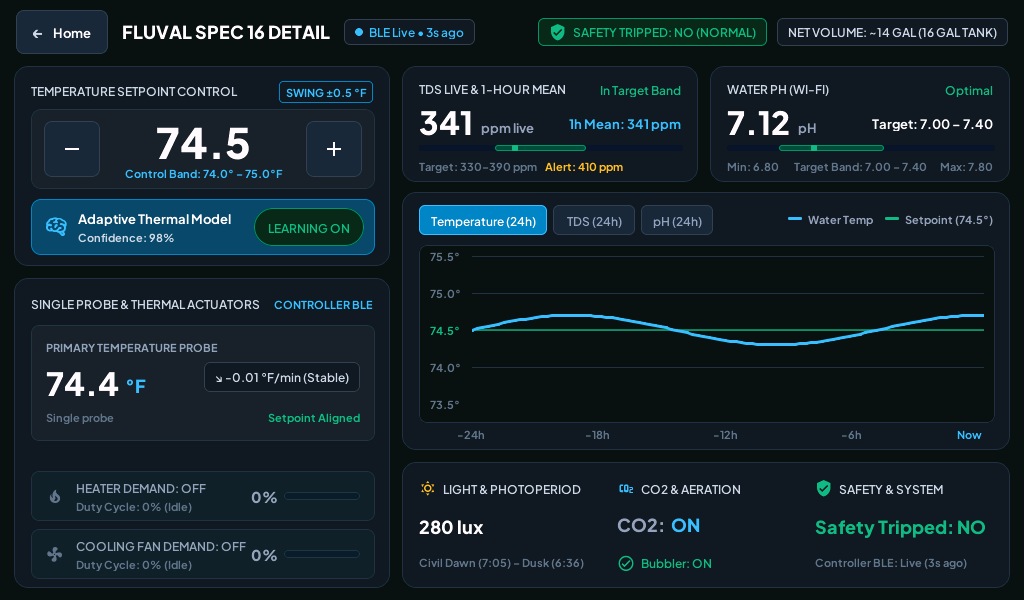
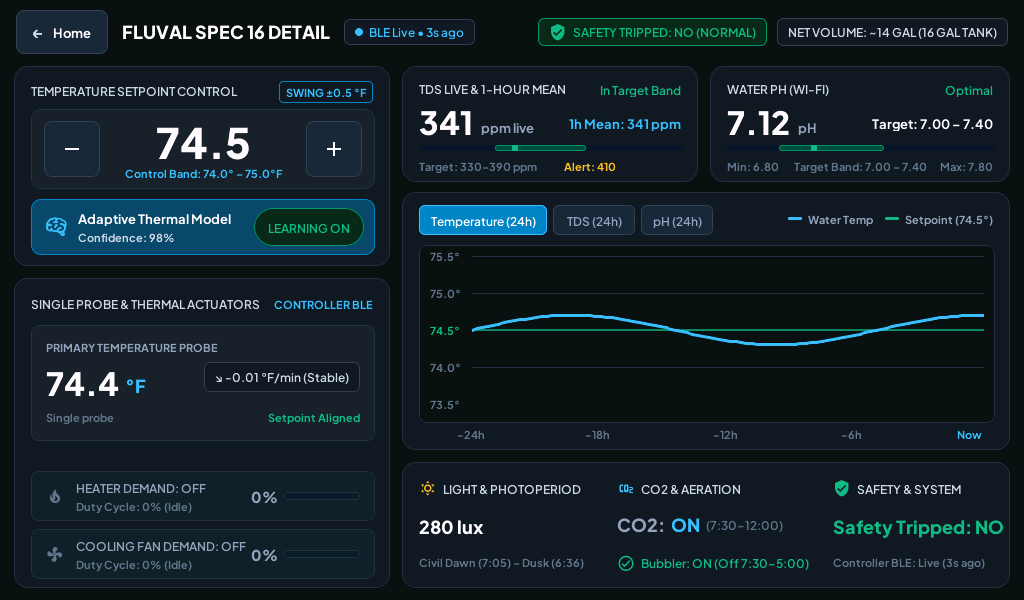
The panel shows the CO2 and bubbler schedules, not just on/off
Home Assistant knows both tanks' schedules (the 75's light-following
CO2 start/stop sensors, the nano's input_datetimes, and whether each
schedule automation is running), so it now composes a short note per tank
and publishes it retained: the CO2 window or "Schedule off", the
bubbler's pause or "24/7". The detail screens show them beside CO2 and the
bubbler, e.g. "CO2: OFF (Schedule off)", "Bubbler: ON (Off 7:30-5:00)".

diff --git a/tools/gen_panel_p4_ui.py b/tools/gen_panel_p4_ui.py
@@ -561,14 +561,15 @@ def detail_page(T):
             icon(None, "co2", 18, "cyan", x=214, y=16),
             label(None, "CO2 & AERATION", "f12", "text2", x=238, y=18),
             row(None, 214, 48, h=28, gap=6, kids=[
-                label(None, "CO2:", "f18", "label"), label(f"{w}_d_co2", "--", "f18")]),
+                label(None, "CO2:", "f18", "label"), label(f"{w}_d_co2", "--", "f18"),
+                label(f"{w}_d_co2_n", "", "f12", "muted")]),
             row(None, 214, 88, h=24, gap=6, kids=[
                 icon(f"{w}_d_bub_i", "check", 18, "green"),
                 label(f"{w}_d_bub", "", "f12", "green")]),
-            icon(None, "shield", 18, "green", x=412, y=16),
-            label(None, "SAFETY & SYSTEM", "f12", "text2", x=436, y=18),
-            label(f"{w}_d_safe2", "--", "f18", x=412, y=52),
-            label(f"{w}_d_ctrl", "", "f11", "muted", x=412, y=92),
+            icon(None, "shield", 18, "green", x=430, y=16),
+            label(None, "SAFETY & SYSTEM", "f12", "text2", x=454, y=18),
+            label(f"{w}_d_safe2", "--", "f18", x=430, y=52),
+            label(f"{w}_d_ctrl", "", "f11", "muted", x=430, y=92),
         ]),
     ]
     return {"id": f"w_page_{t}", "bg_color": COL["canvas"], "scrollable": False,
@@ -1259,7 +1260,11 @@ UPDATE_TANK = r"""
       txt(id(w_@T@_d_sun), "Civil Dawn (%s) – Dusk (%s)", dawn->strftime("%-I:%M").c_str(), dusk->strftime("%-I:%M").c_str());
     txt(id(w_@T@_d_co2), "%s", co2 < 0 ? "--" : (co2 ? "ON" : "OFF"));
     col(id(w_@T@_d_co2), co2 == 1 ? 0x38BDF8 : 0xF8FAFC);
-    txt(id(w_@T@_d_bub), "Bubbler: %s", bub < 0 ? "--" : (bub ? "ON" : "OFF"));
+    // Schedule notes from Home Assistant: "(Schedule off)", "(7:31–3:10)".
+    const std::string &cn = id(ha_co2_note_@T@), &bn = id(ha_bubbler_note_@T@);
+    if (cn.empty()) txt(id(w_@T@_d_co2_n), "%s", ""); else txt(id(w_@T@_d_co2_n), "(%s)", cn.c_str());
+    if (bn.empty()) txt(id(w_@T@_d_bub), "Bubbler: %s", bub < 0 ? "--" : (bub ? "ON" : "OFF"));
+    else txt(id(w_@T@_d_bub), "Bubbler: %s (%s)", bub < 0 ? "--" : (bub ? "ON" : "OFF"), bn.c_str());
     col(id(w_@T@_d_bub), bub == 1 ? 0x10B981 : 0x94A3B8);
     lv_label_set_text(id(w_@T@_d_bub_i), bub == 1 ? "@ICON_CHECK@" : "@ICON_MINUSC@");
     col(id(w_@T@_d_bub_i), bub == 1 ? 0x10B981 : 0x94A3B8);

diff --git a/tools/p4_preview.py b/tools/p4_preview.py
@@ -106,6 +106,8 @@ id(wc_batt_low) = false; id(wc_volume) = 62; id(wc_online) = true;
 id(wc_last_start) = epoch - 5 * 86400;
 id(ha_co2_t75) = 0; id(ha_bubbler_t75) = 1; id(ha_co2_t16) = 1; id(ha_bubbler_t16) = 1;
 id(ha_livestock_days) = 142;
+id(ha_co2_note_t75) = "Schedule off"; id(ha_bubbler_note_t75) = "24/7";
+id(ha_co2_note_t16) = "7:30–12:00"; id(ha_bubbler_note_t16) = "Off 7:30–5:00";
 id(redraw_charts) = true;
 if (s == "home" || s == "t75" || s == "t16" || s == "wc") {
   id(ro_flowing) = s != "home";
